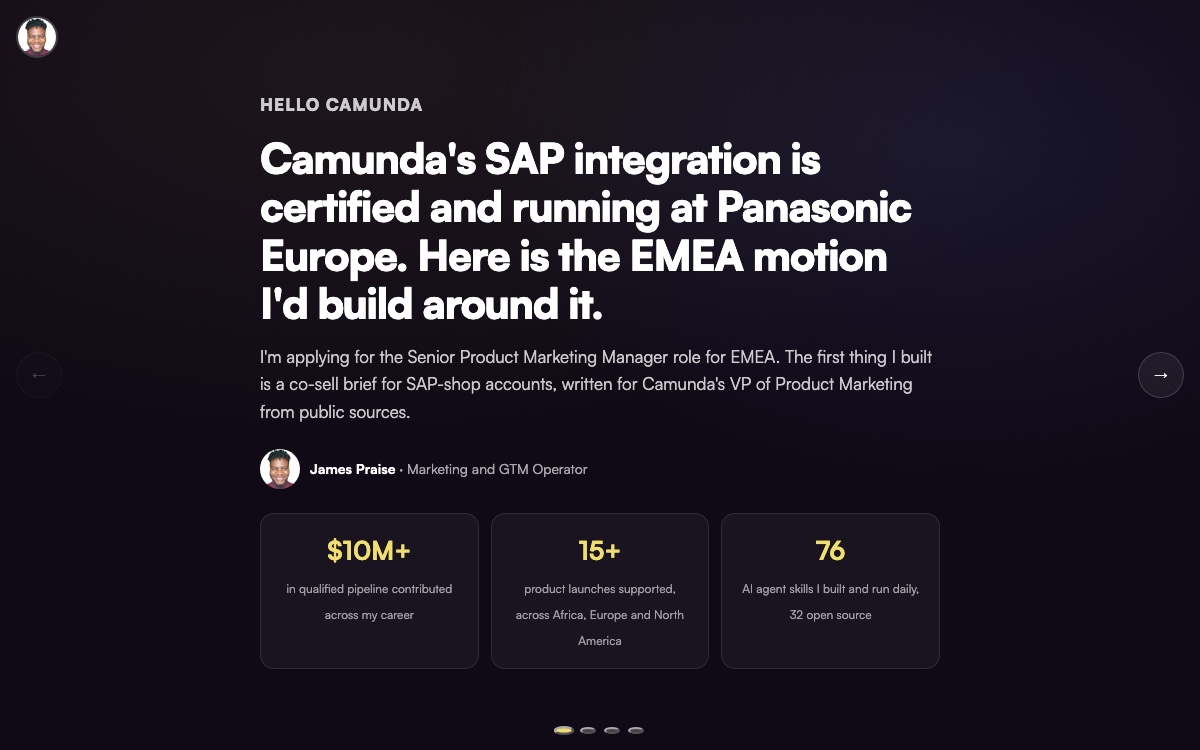
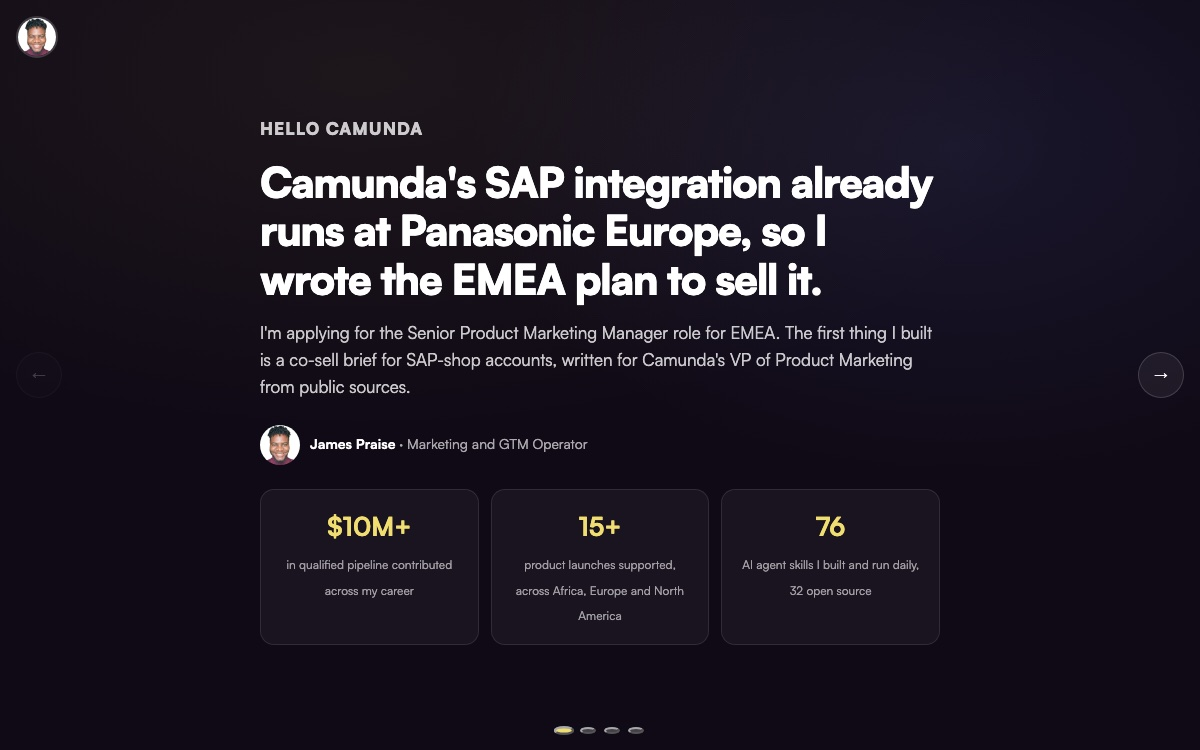
Camunda EMEA pitch: humanizer pass, resume and cover letter buttons, refreshed thumbnail

diff --git a/work/camunda-emea/proof/index.html b/work/camunda-emea/proof/index.html
@@ -86,7 +86,7 @@ height="0" width="0" style="display:none;visibility:hidden"></iframe></noscript>
     <a href="#unconfirmed">Not confirmed</a>
   </div>
   <div class="proof-toc-group">
-    <p class="proof-toc-label">Why this shape</p>
+    <p class="proof-toc-label">Why it is built this way</p>
     <a href="#reasoning">The hand-off</a>
   </div>
 </nav>
@@ -102,7 +102,7 @@ height="0" width="0" style="display:none;visibility:hidden"></iframe></noscript>
     <span><strong>James Praise</strong> &middot; Marketing and GTM Operator</span>
   </div>
 
-  <p class="proof-note">Prepared for Justin Vaughan-Brown, VP Product Marketing &amp; Strategic Communications. Written from public sources only, so each claim names its source, and the last section lists what I could not confirm from outside.</p>
+  <p class="proof-note">Prepared for Justin Vaughan-Brown, VP Product Marketing &amp; Strategic Communications. I wrote it from public sources only. Each claim links to its source, and the last section lists what I could not confirm from outside.</p>
 
   <div class="proof-draft">
     <h2 id="motion">The motion in one paragraph</h2>
@@ -124,7 +124,7 @@ height="0" width="0" style="display:none;visibility:hidden"></iframe></noscript>
     <p>The account profile has three triggers. An account needs at least one, and the strongest accounts have two.</p>
     <p><strong>Trigger 1: ECC on the 2027 clock.</strong> Most ECC customers will not finish by the end of 2027, and about half expect to run ECC into 2030, according to the <a href="https://impulsant.dsag.de/formate/pressemeldung/dsag-investment-report-2026-companies-are-investing-more-selectively-ai-is-becoming-established-cloud-computing-is-being-put-to-the-test/" target="_blank" rel="noopener">DSAG Investment Report 2026</a>. Those companies will run ECC and S/4HANA side by side for years, and a process layer above both is useful on day one and survives the move. Panasonic's own description, reported by <a href="https://sapinsider.org/map/sap-s4hana-process-orchestration-process-logic" target="_blank" rel="noopener">SAPinsider</a>, is that when an ERP system changes, the process itself can remain largely untouched. The DSAG survey covers German-speaking member companies only. The EMEA-wide number is a first-week task.</p>
     <p><strong>Trigger 2: a Clean Core mandate.</strong> The customer has been told to stop customizing the ERP before it migrates. The approval chains and exception handling that lived in SAP's custom ABAP code have to go somewhere. Camunda's answer is Business Process Model and Notation (BPMN) and Decision Model and Notation (DMN) models that business and IT can both read.</p>
-    <p><strong>Trigger 3: a process that crosses systems.</strong> Panasonic's business-partner process is the example: a request starts in a form, gets validated against SAP, and records an approval path, with S/4HANA staying the source of truth. Quote-to-cash, procure-to-pay, onboarding and claims have the same shape, and any of them that touch a non-SAP system fit, as <a href="https://sapinsider.org/map/camunda-processos-brings-agentic-orchestration-to-enterprise-workflows" target="_blank" rel="noopener">SAPinsider</a> also notes.</p>
+    <p><strong>Trigger 3: a process that crosses systems.</strong> Panasonic's business-partner process is the example: a request starts in a form, gets validated against SAP, and records an approval path, with S/4HANA staying the source of truth. Quote-to-cash, procure-to-pay, onboarding and claims work the same way, and any of them that touch a non-SAP system fit, as <a href="https://sapinsider.org/map/camunda-processos-brings-agentic-orchestration-to-enterprise-workflows" target="_blank" rel="noopener">SAPinsider</a> also notes.</p>
     <p>Titles to reach: head of SAP or ERP transformation, enterprise architect, head of process excellence, and the chief information officer. These are hypotheses. The first test is whether Camunda's closed-won deals in EMEA show the same titles.</p>
 
     <h2 id="versus-sap">Where Camunda sits next to SAP's own tools</h2>
@@ -155,9 +155,9 @@ height="0" width="0" style="display:none;visibility:hidden"></iframe></noscript>
 
     <h2 id="plays">Partner and field plays</h2>
     <h3>For Camunda's EMEA field</h3>
-    <p>A one-page SAP discovery card: five questions that find a Trigger 1, 2 or 3 account in the first call. A ten-minute demo script: start a Camunda process from a Fiori screen, render a Camunda form in Fiori, read from S/4HANA through the OData connector, and add one agent step that calls an SAP function. One environment, rehearsed, owned by a named solutions engineer. A Panasonic reference kit: a one-page summary, the four numbers, and a call the field can request. The situation table and objection sheet above, built into the sales playbook.</p>
+    <p>The field gets a one-page SAP discovery card with five questions that find a Trigger 1, 2 or 3 account in the first call. It also gets a ten-minute demo script: start a Camunda process from a Fiori screen, render a Camunda form in Fiori, read from S/4HANA through the OData connector, and add one agent step that calls an SAP function. A named solutions engineer owns one rehearsed demo environment. A Panasonic reference kit carries a one-page summary, the four numbers, and a call the field can request. The situation table and objection sheet above go into the sales playbook.</p>
     <h3>For SAP's field</h3>
-    <p>A short "when to bring Camunda in" note for SAP account executives and BTP specialists, built on the situation table. It leads with their problem: customers who cannot finish on the 2027 clock. Then a joint ninety-minute workshop for a shared customer: map five processes, mark where each touches a non-SAP system, and pick one to build. It ends with a decision. Last, a check on whether an SAP Store listing is available and worth the work. I found none from outside.</p>
+    <p>SAP's account executives and BTP specialists get a short "when to bring Camunda in" note built on the situation table. It leads with their problem: customers who cannot finish on the 2027 clock. After that comes a joint ninety-minute workshop for a shared customer, where the team maps five processes, marks where each touches a non-SAP system, and picks one to build. It ends with a decision. Last, I'd check whether an SAP Store listing is available and worth the work. I found none from outside.</p>
     <h3>For systems integrators</h3>
     <p>The <a href="https://camunda.com/case-studies/panasonic-europe/" target="_blank" rel="noopener">Panasonic case study</a> names Holisticon and cimt AG as implementation partners, and <a href="https://column2.com/2024/10/camundacon-2024-day-1-integrating-camunda-and-sap/" target="_blank" rel="noopener">CamundaCon 2024 coverage</a> mentions a Cognizant accounts-payable solution built on the OData interface. These are the first calls. Give them the demo environment, the discovery card and a clear rule on who owns the customer conversation.</p>
 
@@ -180,9 +180,9 @@ height="0" width="0" style="display:none;visibility:hidden"></iframe></noscript>
   </div>
 
   <div class="proof-body">
-    <p class="section-label">Why this shape</p>
+    <p class="section-label">Why it is built this way</p>
     <h2 id="reasoning">The hand-off</h2>
-    <p>A co-sell motion fails at the hand-off. The SAP seller, the Camunda seller and the integrator each need one thing they can say and one thing they can do in the first meeting. That is why the brief is a rule, a table and a demo script before it is anything else, and why every proof point I could not source is marked instead of rounded up.</p>
+    <p>A co-sell motion fails at the hand-off. The SAP seller, the Camunda seller and the integrator each need one thing they can say and one thing they can do in the first meeting. That is why the brief is a rule, a table and a demo script before it is anything else, and why every claim I could not source is marked as unconfirmed.</p>
   </div>
 
   <div class="button-row" style="margin-top: 40px;">

diff --git a/work/camunda-emea/index.html b/work/camunda-emea/index.html
@@ -45,7 +45,7 @@ height="0" width="0" style="display:none;visibility:hidden"></iframe></noscript>
   <section class="pitch-slide is-active">
     <div class="pitch-slide-inner">
       <p class="pitch-eyebrow">Hello Camunda</p>
-      <h1>Camunda's SAP integration is certified and running at Panasonic Europe. Here is the EMEA motion I'd build around it.</h1>
+      <h1>Camunda's SAP integration already runs at Panasonic Europe, so I wrote the EMEA plan to sell it.</h1>
       <p>I'm applying for the Senior Product Marketing Manager role for EMEA. The first thing I built is a co-sell brief for SAP-shop accounts, written for Camunda's VP of Product Marketing from public sources.</p>
       <div class="pitch-credit">
         <img src="/assets/images/james-headshot.jpeg" alt="James Praise" />
@@ -63,15 +63,16 @@ height="0" width="0" style="display:none;visibility:hidden"></iframe></noscript>
     <div class="pitch-slide-inner">
       <h2>The Pitch: Where I'd Start</h2>
       <p>I'd start with what I already wrote: a co-sell brief for SAP-shop accounts, covering who to target, where Camunda sits next to SAP's own process tools, and a 90-day plan to put it in front of the EMEA field. <a href="/work/camunda-emea/proof/">Read the brief &rarr;</a></p>
-      <p>The product work is done. The integration is certified and a European customer runs it at scale. What I'd own is the motion around it. Most customers still on SAP ECC in the German-speaking SAP user group's 2026 survey do not expect to be on S/4HANA by the end of 2027, so many will run both systems for years, and a process layer above them pays off first in those accounts. I'd interview EMEA account executives and solutions engineers on closed SAP deals, turn their answers into a discovery card, a ten-minute demo and an objection sheet, and brief two integrators. Then I'd measure whether the field used any of it in real meetings.</p>
+      <p>The integration is certified and a European customer runs it at scale, so the missing work is the sales motion around it. Most customers still on SAP ECC in the German-speaking SAP user group's 2026 survey do not expect to be on S/4HANA by the end of 2027, so many will run both systems for years, and a process layer above them pays off first in those accounts. I'd interview EMEA account executives and solutions engineers on closed SAP deals, turn their answers into a discovery card, a ten-minute demo and an objection sheet, and brief two integrators. Then I'd measure whether the field used any of it in real meetings.</p>
     </div>
   </section>
 
   <section class="pitch-slide">
     <div class="pitch-slide-inner">
       <h2>The Proof</h2>
-      <p>Start with the <a href="/work/camunda-emea/proof/">Camunda + SAP BTP co-sell brief</a>, the one piece here made for this role. Before it, I built a <a href="/work/camunda/proof/">battlecard for Camunda against Appian</a>, including a written answer to the Gartner Leader versus Visionary objection.</p>
-      <p>Beyond that: at <a href="/work/funnelenvy/">FunnelEnvy</a>, I built an account-based playbook that lifted enterprise meeting booking rates 31%. At <a href="/work/reform/">Reform</a>, I repositioned a developer-first SaaS platform for a defined technical buyer and lifted trial activation 34%. At <a href="/work/cil/">Cecure Intelligence</a>, I ran an enterprise, sales-led motion across Sub-Saharan Africa with long cycles and several stakeholders per deal. I've also built and shipped <a href="/work/marketing-agent-skills/">76<!--skills:built--> AI agent skills</a> (32<!--skills:published--> published), daily proof of the comfort with AI tools this role expects.</p>
+      <p>I wrote the Camunda + SAP BTP co-sell brief for this role, from public sources, with every claim linked. <a href="/work/camunda-emea/proof/">Read the brief &rarr;</a></p>
+      <p>I also built a <a href="/work/camunda/proof/">battlecard for Camunda against Appian</a>, with a written answer to the Gartner Leader versus Visionary objection.</p>
+      <p>At <a href="/work/funnelenvy/">FunnelEnvy</a>, I built an account-based playbook that lifted enterprise meeting booking rates 31%. At <a href="/work/reform/">Reform</a>, I repositioned a developer-first SaaS platform for a defined technical buyer and lifted trial activation 34%. At <a href="/work/cil/">Cecure Intelligence</a>, I ran an enterprise, sales-led motion across Sub-Saharan Africa with long cycles and several stakeholders per deal. I've also built and shipped <a href="/work/marketing-agent-skills/">76<!--skills:built--> AI agent skills</a> (32<!--skills:published--> published), and I use them every day.</p>
     </div>
   </section>
 
@@ -81,7 +82,8 @@ height="0" width="0" style="display:none;visibility:hidden"></iframe></noscript>
       <p>If this is the right problem for you, I'd like to talk about it directly.</p>
       <div class="button-row">
         <a href="mailto:jamesspraise@gmail.com?subject=Senior%20Product%20Marketing%20Manager%20EMEA%20-%20James%20Praise" class="button button-primary">Let's Talk</a>
-        <a href="/work/" target="_blank" class="button button-secondary">See My Work</a>
+        <a href="/work/camunda-emea/files/james-praise-resume.pdf" target="_blank" class="button button-secondary">My Resume</a>
+        <a href="/work/camunda-emea/files/james-praise-cover-letter.pdf" target="_blank" class="button button-secondary">My Cover Letter</a>
       </div>
     </div>
   </section>
